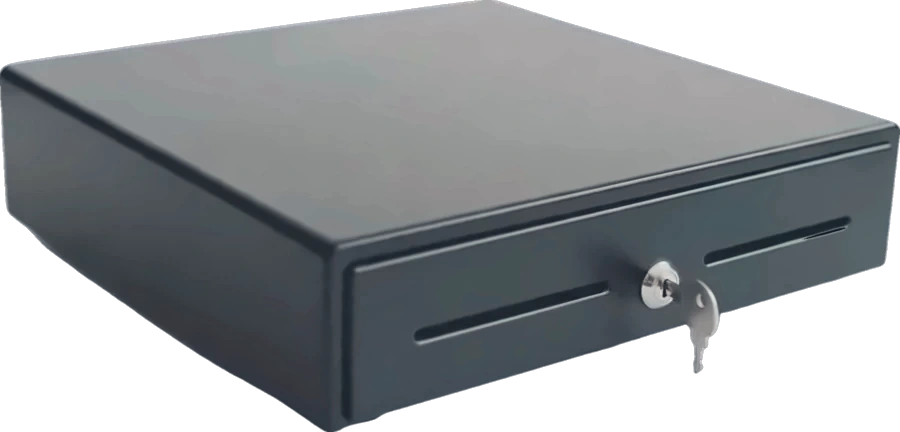
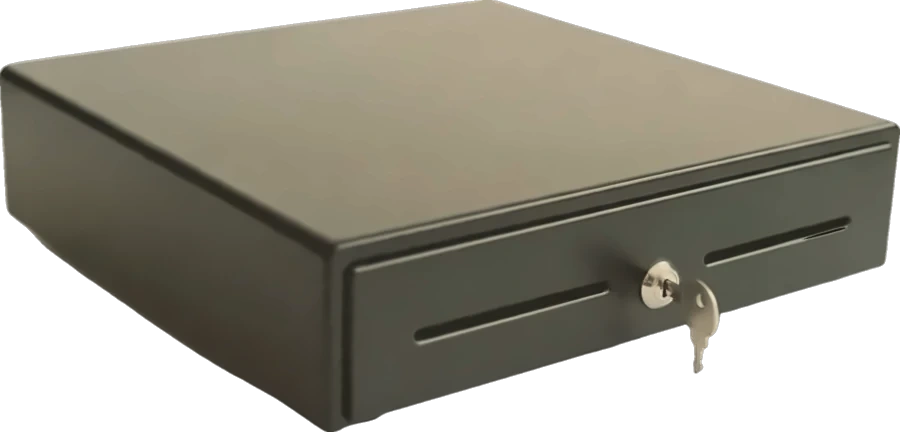
Mobiili: laitekuviin lämmin sävy takaisin
Claude-Session: https://claude.ai/code/session_01GFdz22wxCZYfy3LenkEfZr

diff --git a/resella.html b/resella.html
@@ -1193,12 +1193,12 @@ section.fd{background:var(--blue)}
 <section class="m-sec m-dev" id="m-laitteet">
   <h2 class="m-h2 c m-h2-one">Kassa valmiina käyttöön</h2>
   <p class="m-body c">Tuomme laitteet paikan päälle ja asennamme ne valmiiksi.</p>
-  <img class="m-tab" src="assets/m/dev/tabletti.webp?v=3" alt="Tabletti telineessä kassanäkymällä" loading="lazy">
+  <img class="m-tab" src="assets/m/dev/tabletti.webp?v=4" alt="Tabletti telineessä kassanäkymällä" loading="lazy">
   <ul class="m-dlist">
-    <li><div><h3>Viivakoodinlukija</h3><p>Lukee viivakoodit ja QR-koodit.</p></div><img src="assets/m/dev/viivakoodinlukija.webp?v=3" alt="" loading="lazy"></li>
-    <li><div><h3>Maksupääte</h3><p>Summa siirtyy suoraan päätteeseen.</p></div><img src="assets/m/dev/maksupaate.webp?v=3" alt="" loading="lazy"></li>
-    <li><div><h3>Kuittitulostin</h3><p>Kuitti heti maksun jälkeen.</p></div><img src="assets/m/dev/kuittitulostin.webp?v=3" alt="" loading="lazy"></li>
-    <li><div><h3>Kassalipas</h3><p>Käteiselle oma lipas.</p></div><img src="assets/m/dev/kassalipas.webp?v=3" alt="" loading="lazy"></li>
+    <li><div><h3>Viivakoodinlukija</h3><p>Lukee viivakoodit ja QR-koodit.</p></div><img src="assets/m/dev/viivakoodinlukija.webp?v=4" alt="" loading="lazy"></li>
+    <li><div><h3>Maksupääte</h3><p>Summa siirtyy suoraan päätteeseen.</p></div><img src="assets/m/dev/maksupaate.webp?v=4" alt="" loading="lazy"></li>
+    <li><div><h3>Kuittitulostin</h3><p>Kuitti heti maksun jälkeen.</p></div><img src="assets/m/dev/kuittitulostin.webp?v=4" alt="" loading="lazy"></li>
+    <li><div><h3>Kassalipas</h3><p>Käteiselle oma lipas.</p></div><img src="assets/m/dev/kassalipas.webp?v=4" alt="" loading="lazy"></li>
   </ul>
 </section>
 
